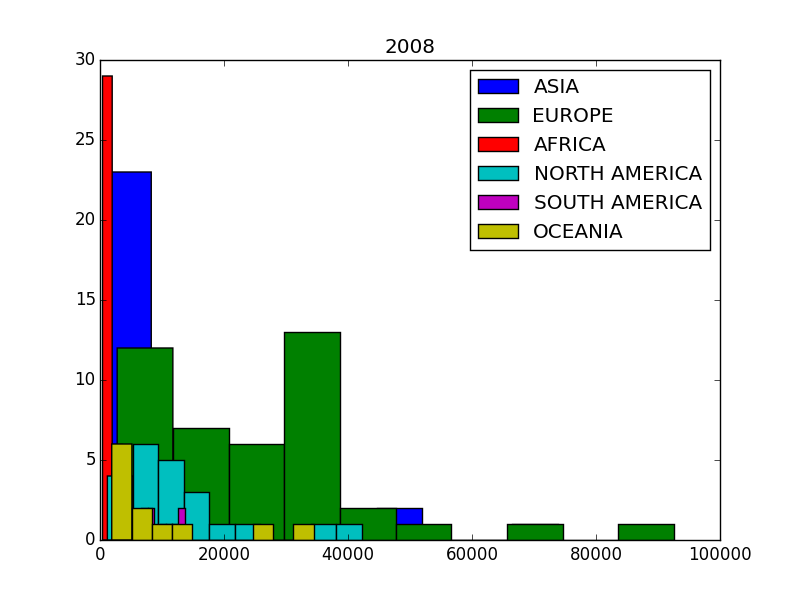
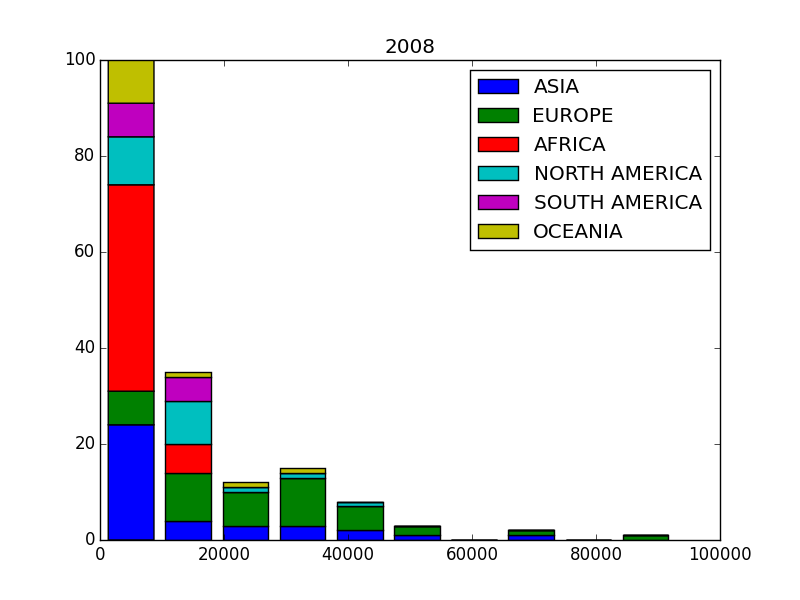
histogram modifired

Changed region(s): [[0.0938, 0.09, 0.5938, 0.9], [0.75, 0.87, 0.8438, 0.9], [0.625, 0.87, 0.7188, 0.9]]

diff --git a/jz2327/visual_analysis.py b/jz2327/visual_analysis.py
@@ -9,10 +9,12 @@ class data_visulization():
 		self.distribution = merged_distribution
 
 	def data_histograms(self):
+		label_list = self.distribution['Region'].unique().tolist()
+		list_by_region = []
+		for region in label_list:
+			list_by_region.append(self.distribution[self.distribution['Region'] == region].Income)
 		plt.figure()
-		for region in self.distribution['Region'].unique():   #generate histograms of different region in a figure.
-			region_distribution_dist = self.distribution[self.distribution['Region'] == region]
-			plt.hist(region_distribution_dist['Income'].tolist(), label = region, stacked = False)
+		plt.hist(list_by_region, stacked = True, label = label_list)
 		plt.legend(loc = 'upper right')
 		plt.title(self.year)
 		plt.savefig('histograms_{}.png'.format(str(self.year)))
